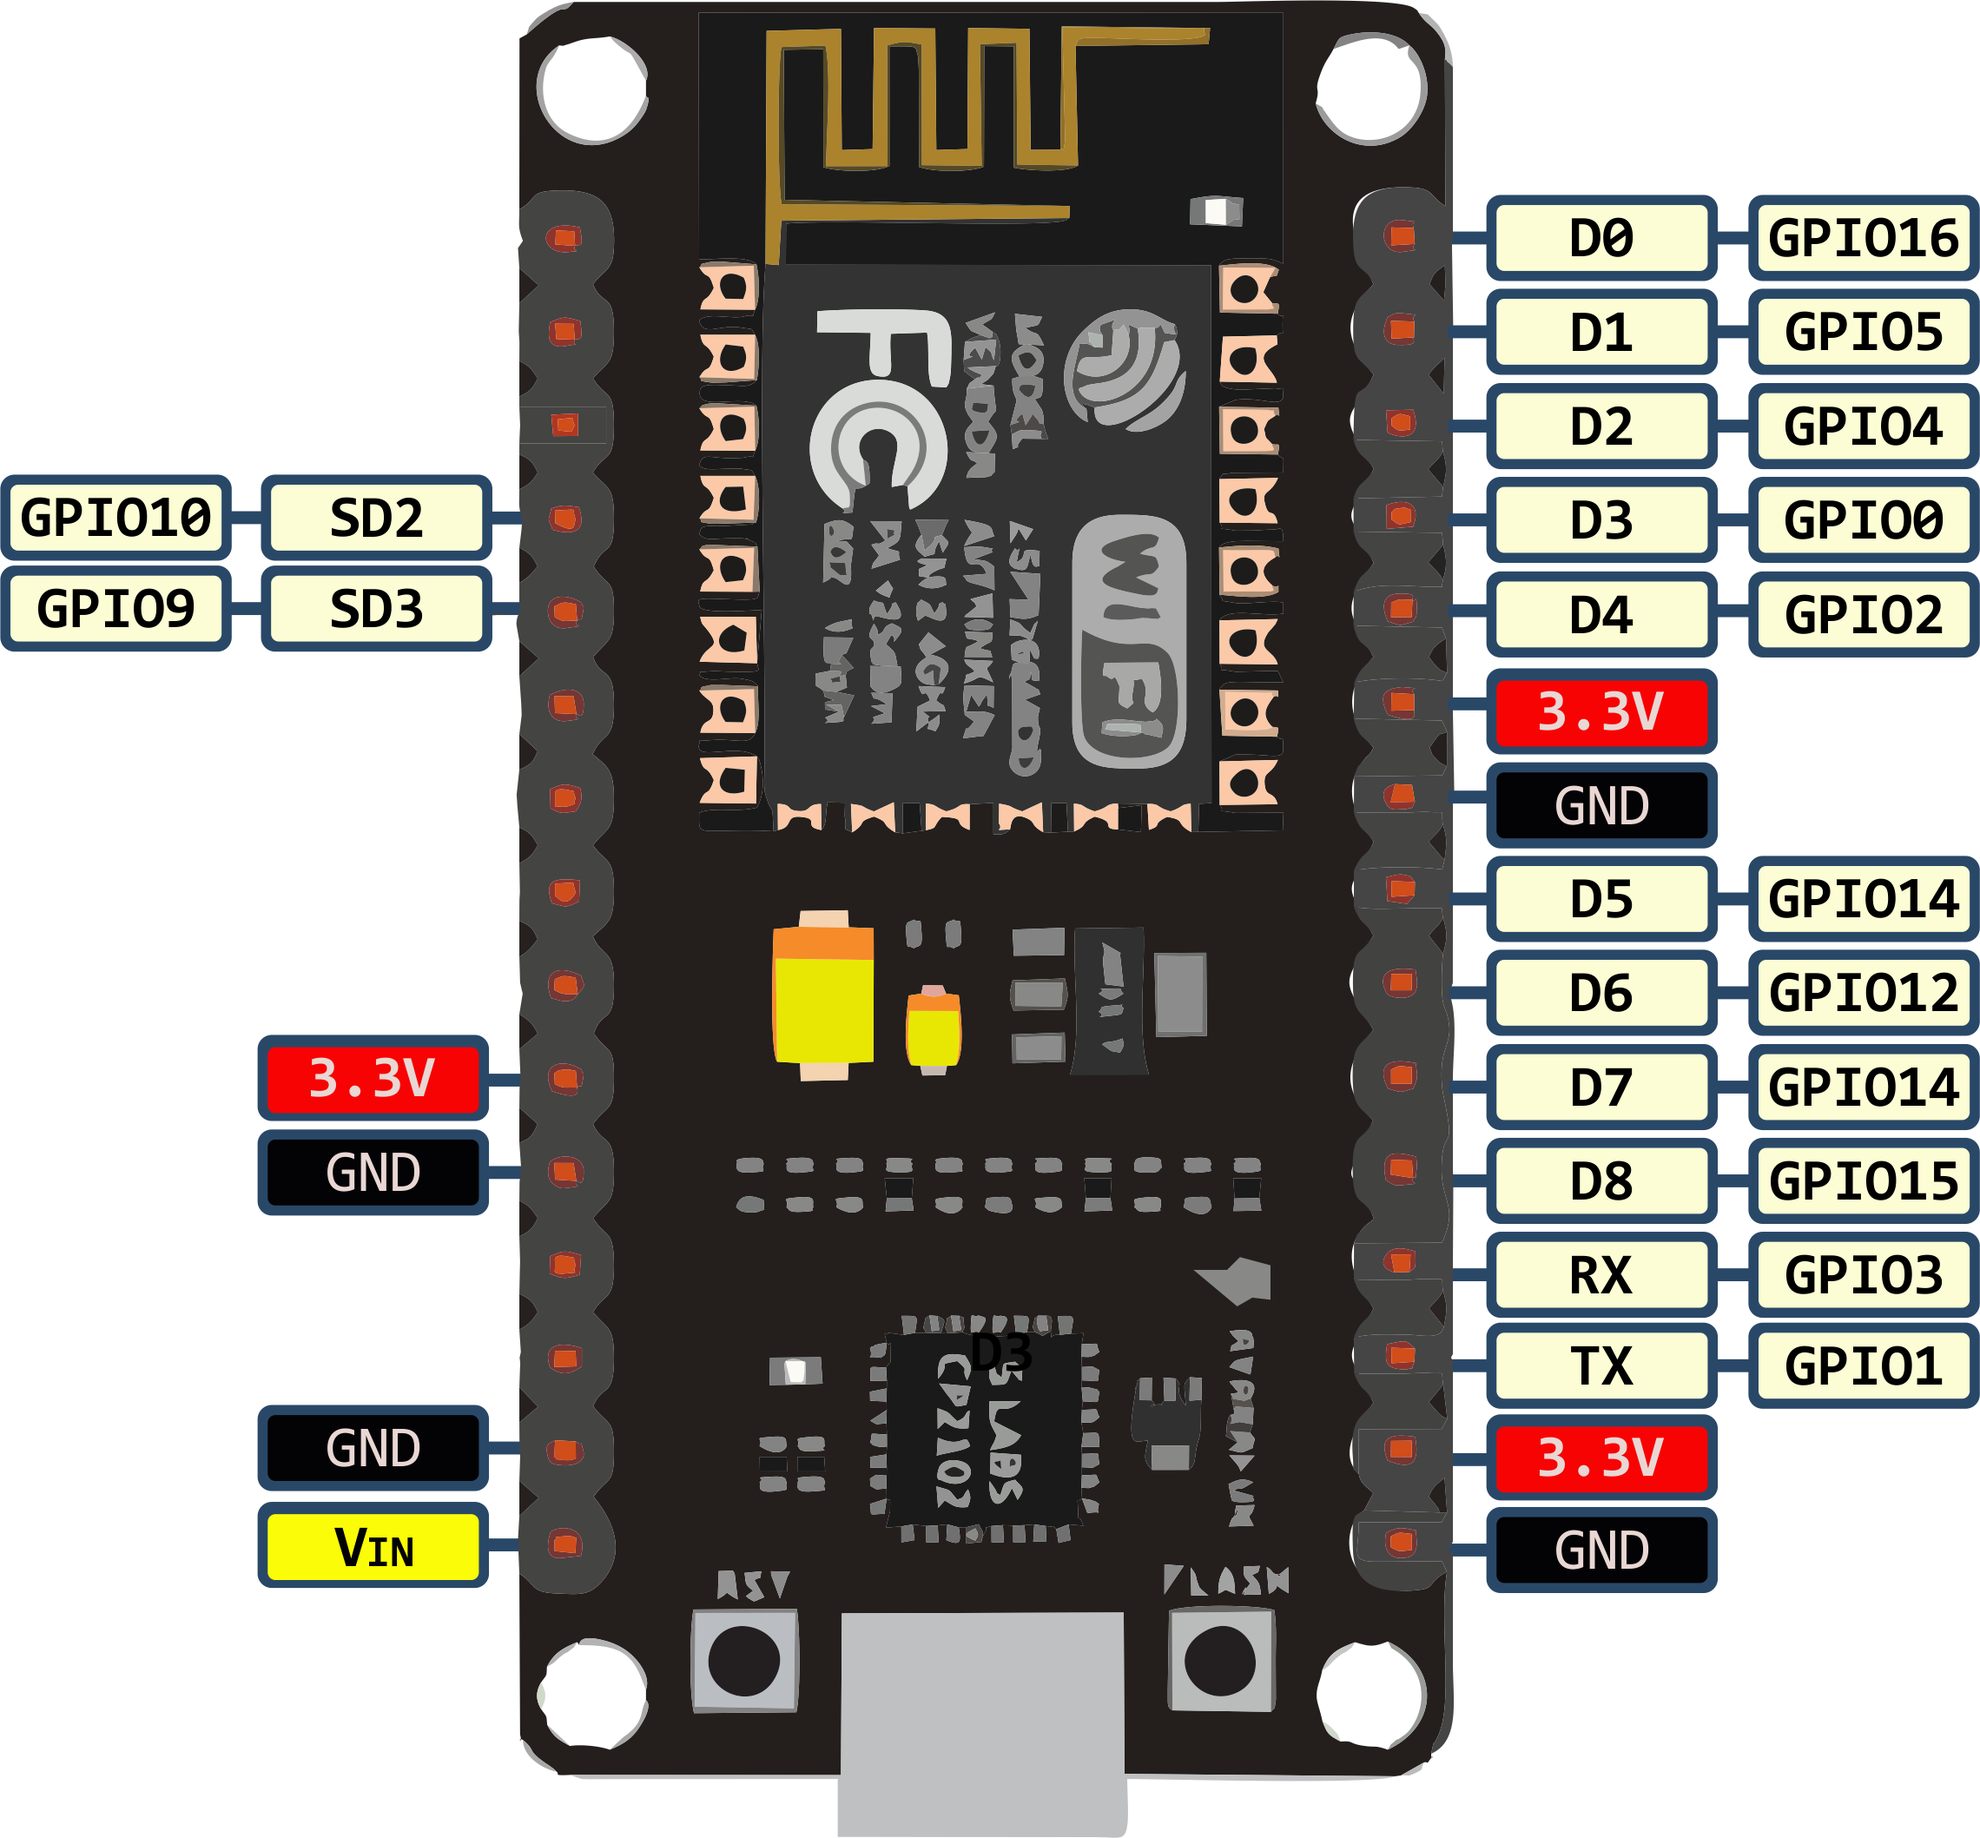
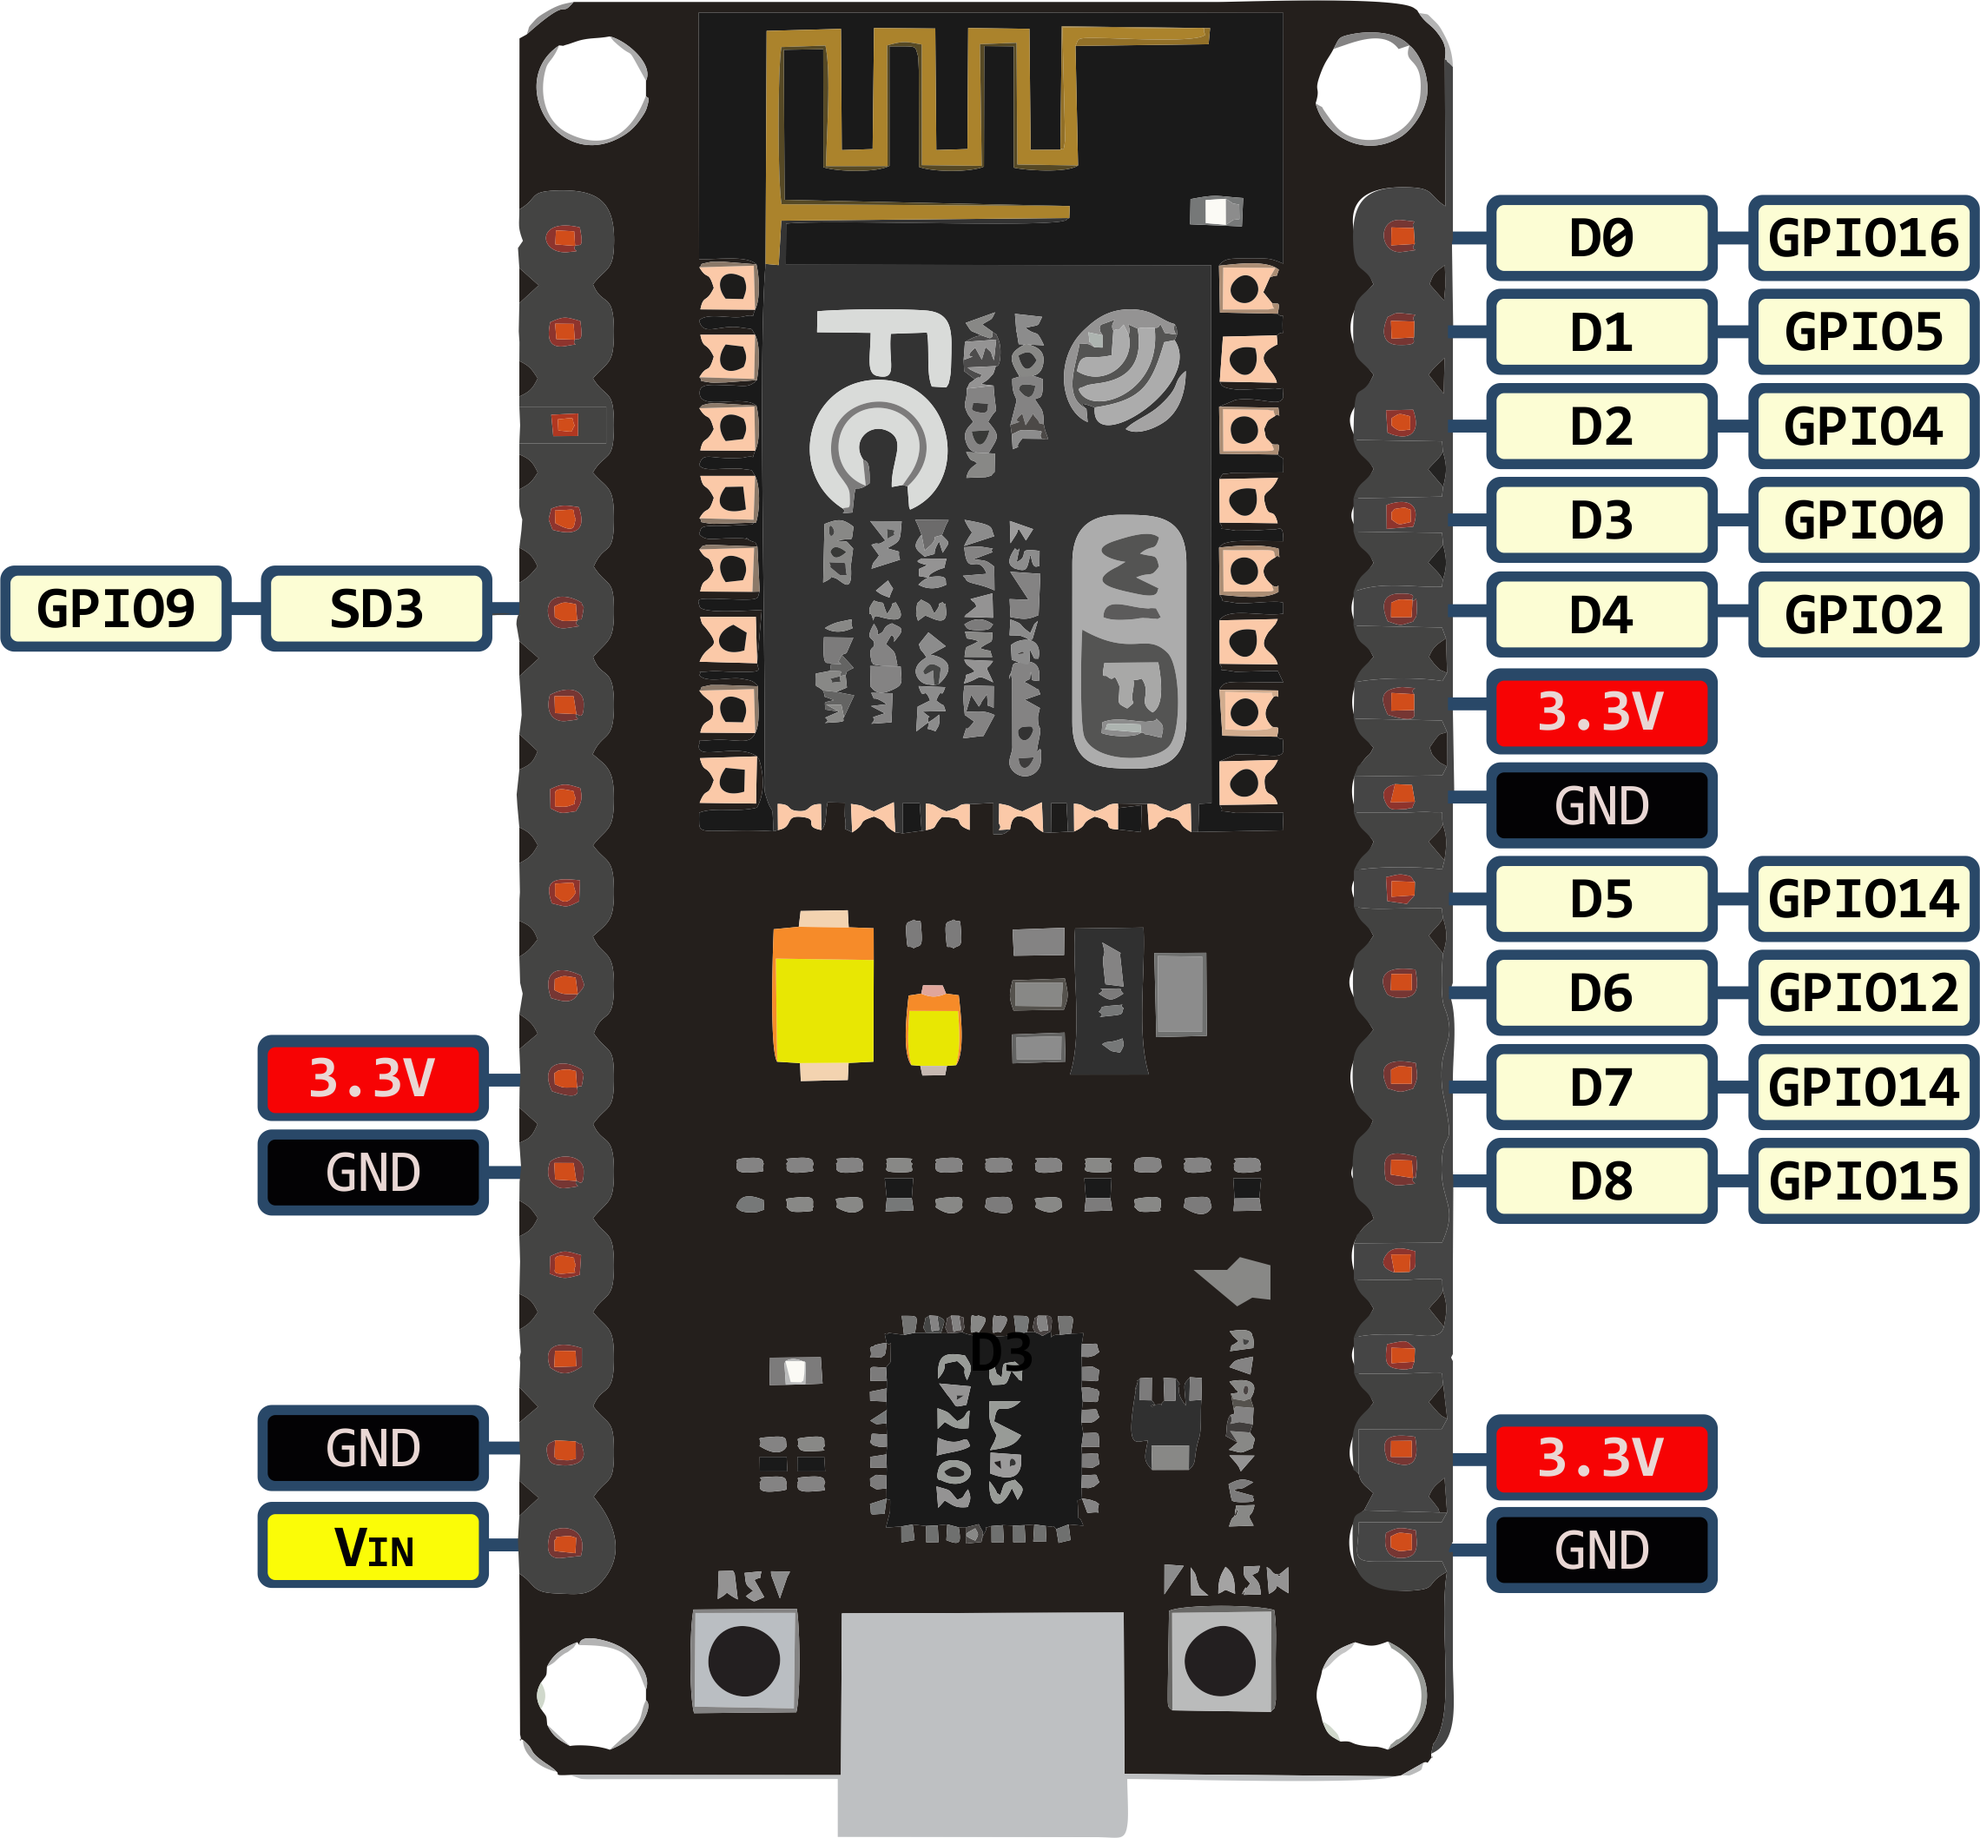
pin_map and complete message to send

Changed region(s): [[0.7162, 0.655, 1.0, 0.7798], [0.0, 0.2495, 0.2491, 0.3119]]

diff --git a/software/src/index.html b/software/src/index.html
@@ -79,105 +79,126 @@ $(function() {
   });
 
   // load default (just specifies circuit size).
-  setCircuitData('{ "width":600, "height":400 }');
-});
-	</script>
-	<script>
-		$('#boardSelector').change(function() {
-			switch ($(this).val()){
-				case 'NodeMCU_V2':
-					var HTMLboard = "";
-					var inputs = ["In0","In1","Out0","Out1","Out2"];
-					var HTMLoptions = '<option></option>';
-					inputs.forEach((v, k) => {
-						HTMLoptions += '<option>' + v + '</option>';
-					});
-					HTMLboard += `
-						<div style="float:left;width:80px;text-align:right;margin-right:10px;">
-							<select name="boardPin[SD2]" style="margin-top:115px;width:80px">${HTMLoptions}</select>
-							<select name="boardPin[SD3]" style="margin-top:2px;width:80px">${HTMLoptions}</select>
-						</div>
-						`;
-					HTMLboard += `<img src="img/NodeMCU_V2.png" style="float:left;height:450px;"/>`;
-					HTMLboard += `
-						<div style="float:left;width:80px;margin-left:10px;">
-							<select name="boardPin[D0]" style="margin-top:47px;width:80px">${HTMLoptions}</select>
-							<select name="boardPin[D1]" style="margin-top:2px;width:80px">${HTMLoptions}</select>
-							<select name="boardPin[D2]" style="margin-top:2px;width:80px">${HTMLoptions}</select>
-							<select name="boardPin[D3]" style="margin-top:2px;width:80px">${HTMLoptions}</select>
-							<select name="boardPin[D4]" style="margin-top:2px;width:80px">${HTMLoptions}</select>
-							<select name="boardPin[D5]" style="margin-top:48px;width:80px">${HTMLoptions}</select>
-							<select name="boardPin[D6]" style="margin-top:2px;width:80px">${HTMLoptions}</select>
-							<select name="boardPin[D7]" style="margin-top:2px;width:80px">${HTMLoptions}</select>
-							<select name="boardPin[D8]" style="margin-top:2px;width:80px">${HTMLoptions}</select>
-							<select name="boardPin[RX]" style="margin-top:2px;width:80px">${HTMLoptions}</select>
-							<select name="boardPin[TX]" style="margin-top:2px;width:80px">${HTMLoptions}</select>
-						</div>
-						`;
-				break;
-				case 'Wemos_D1':
-				var HTMLboard = "";
-					var inputs = ["In0","In1","Out0","Out1","Out2"];
-					var HTMLoptions = '<option></option>';
-					inputs.forEach((v, k) => {
-						HTMLoptions += '<option>' + v + '</option>';
-					});
-					HTMLboard += `<img src="img/Wemos_D1.png" style="float:left;height:500px;margin-left:100px"/>`;
-					HTMLboard +=
-					`<div style="float:left;width:80px;margin-left:10px;">
-							<select name="boardPin[D13]" style="margin-top:200px;width:80px">${HTMLoptions}</select>
-							<select name="boardPin[D12]" style="margin-top:2px;width:80px">${HTMLoptions}</select>
-							<select name="boardPin[D11]" style="margin-top:2px;width:80px">${HTMLoptions}</select>
-							<select name="boardPin[D10]" style="margin-top:2px;width:80px">${HTMLoptions}</select>
-							<select name="boardPin[D9]" style="margin-top:2px;width:80px">${HTMLoptions}</select>
-							<select name="boardPin[D8]" style="margin-top:2px;width:80px">${HTMLoptions}</select>
-							<select name="boardPin[D4]" style="margin-top:42px;width:80px">${HTMLoptions}</select>
-							<select name="boardPin[D3]" style="margin-top:2px;width:80px">${HTMLoptions}</select>
-							<select name="boardPin[D2]" style="margin-top:2px;width:80px">${HTMLoptions}</select>
-						</div>
-						`;
-				break;
-				default:
-					var HTMLboard = "";
-				break;
-			}
-			$("#boardArea").html(HTMLboard);
+	setCircuitData('{ "width":600, "height":400 }');
+	
+	var circuitMessage = {};
+	var gpios = {};
+	$('#boardSelector').change(function() {
+		var HTMLboard = "";
+		circuitMessage = $s.controller($simcir.find('.simcir-workspace')).getCircuitMessage();
+		gpios = $.extend({},circuitMessage.messageToSend.circuit.inputs, circuitMessage.messageToSend.circuit.outputs);
+		var HTMLoptions = '<option></option>';
+		$.each(gpios, function(k, v) {
+			HTMLoptions += '<option>' + k + '</option>';
 		});
-
-		var host = window.document.location.host.replace(/:.*/, '');
-		var ws = new WebSocket('ws://' + host + ':9061');
-		ws.onmessage = function (event) {
-			console.log(event.data);
-		};
-		ws.onopen = function() {
-			console.log('open');
-		};
-
-		function sendCircuit() {
-			ws.send(`
-			{
-				"type":"circuit",
-				"circuit":
-				{
-					"outputs":{
-						"Out1":"(In1 AND NOT(In3)) OR (In2 AND In3)",
-						"Out2":"In1 XOR In2"
-					}
-					,"inputs":{
-						"In1":1,
-						"In2":0,
-						"In3":{"values":[0,1,0,1],"timeslices":[1000,2000,1000,6000]}
-					}
-					,"pin_map":{
-						"Out1":"D0",
-						"Out2":"D1"
-					}
-					,"hardware":"esp8266"
-					,"board":"NodeMCU_V2"
-					,"cycles":1
-				}
-			}`);
+		switch ($(this).val()){
+			case 'NodeMCU_V2':
+				HTMLboard += `
+					<input type="hidden" name="board" value="NodeMCU_V2" />
+					<input type="hidden" name="hardware" value="ESP8266" />
+					<div style="float:left;width:80px;text-align:right;margin-right:10px;">
+						<select selectType="boardPin" name="SD3" style="margin-top:138px;width:80px">${HTMLoptions}</select>
+					</div>
+					`;
+				HTMLboard += `<img src="img/NodeMCU_V2.png" style="float:left;height:450px;"/>`;
+				HTMLboard += `
+					<div style="float:left;width:80px;margin-left:10px;">
+						<select selectType="boardPin" name="D0" style="margin-top:47px;width:80px">${HTMLoptions}</select>
+						<select selectType="boardPin" name="D1" style="margin-top:2px;width:80px">${HTMLoptions}</select>
+						<select selectType="boardPin" name="D2" style="margin-top:2px;width:80px">${HTMLoptions}</select>
+						<select selectType="boardPin" name="D3" style="margin-top:2px;width:80px">${HTMLoptions}</select>
+						<select selectType="boardPin" name="D4" style="margin-top:2px;width:80px">${HTMLoptions}</select>
+						<select selectType="boardPin" name="D5" style="margin-top:48px;width:80px">${HTMLoptions}</select>
+						<select selectType="boardPin" name="D6" style="margin-top:2px;width:80px">${HTMLoptions}</select>
+						<select selectType="boardPin" name="D7" style="margin-top:2px;width:80px">${HTMLoptions}</select>
+						<select selectType="boardPin" name="D8" style="margin-top:2px;width:80px">${HTMLoptions}</select>
+					</div>
+					`;
+			break;
+			case 'Wemos_D1':
+				HTMLboard += `<img src="img/Wemos_D1.png" style="float:left;height:500px;margin-left:100px"/>`;
+				HTMLboard +=`
+					<input type="hidden" name="board" value="Wemos_D1" />
+					<input type="hidden" name="hardware" value="ESP8266" />
+					<div style="float:left;width:80px;margin-left:10px;">
+						<select selectType="boardPin" name="D13" style="margin-top:200px;width:80px">${HTMLoptions}</select>
+						<select selectType="boardPin" name="D12" style="margin-top:2px;width:80px">${HTMLoptions}</select>
+						<select selectType="boardPin" name="D11" style="margin-top:2px;width:80px">${HTMLoptions}</select>
+						<select selectType="boardPin" name="D10" style="margin-top:2px;width:80px">${HTMLoptions}</select>
+						<select selectType="boardPin" name="D9" style="margin-top:2px;width:80px">${HTMLoptions}</select>
+						<select selectType="boardPin" name="D8" style="margin-top:2px;width:80px">${HTMLoptions}</select>
+						<select selectType="boardPin" name="D4" style="margin-top:42px;width:80px">${HTMLoptions}</select>
+						<select selectType="boardPin" name="D3" style="margin-top:2px;width:80px">${HTMLoptions}</select>
+						<select selectType="boardPin" name="D2" style="margin-top:2px;width:80px">${HTMLoptions}</select>
+					</div>
+					`;
+			break;
+			default:
+				var HTMLboard = "";
+			break;
 		}
+		$("#boardArea").html(HTMLboard);
+	});
+
+	var host = window.document.location.host.replace(/:.*/, '');
+	var ws = new WebSocket('ws://' + host + ':9061');
+	ws.onmessage = function (event) {
+		console.log(event.data);
+	};
+	ws.onopen = function() {
+		console.log('open ws connection');
+	};
+
+	function sendCircuit() {
+		var arrOut = Object.keys(circuitMessage.messageToSend.circuit.outputs);
+		var qtdOut = arrOut.length;
+		var countOut = 0;
+		var pinMap = {};
+		$('select[selectType=boardPin]').each(function(i, el){
+			// @TODO: validar se todos outputs foram mapeados e se não repetiu
+			//if (arrOut.includes($(el).val())) {
+			//	countOut++;
+			//}
+			if ($(el).val() != "") {
+				pinMap[$(el).attr('name')] = $(el).val();
+			}
+		});
+		
+		circuitMessage.messageToSend["pin_map"] = pinMap;
+		circuitMessage.messageToSend["hardware"] = $("input[name=hardware]").val();
+		circuitMessage.messageToSend["board"] = $("input[name=board]").val();
+		circuitMessage.messageToSend["cycles"] = 1;
+		console.log(circuitMessage.messageToSend, JSON.stringify(circuitMessage.messageToSend));
+		
+		ws.send(JSON.stringify(circuitMessage.messageToSend));
+
+		/*
+		ws.send(`
+		{
+			"type":"circuit",
+			"circuit":
+			{
+				"outputs":{
+					"Out1":"(In1 AND NOT(In3)) OR (In2 AND In3)",
+					"Out2":"In1 XOR In2"
+				}
+				,"inputs":{
+					"In1":1,
+					"In2":0,
+					"In3":{"values":[0,1,0,1],"timeslices":[1000,2000,1000,6000]}
+				}
+				,"pin_map":{
+					"Out1":"D0",
+					"Out2":"D1"
+				}
+				,"hardware":"esp8266"
+				,"board":"NodeMCU_V2"
+				,"cycles":1
+			}
+		}`);*/
+	}
+});
+		
 	</script>
 	<script>if (window.module) module = window.module;</script>
   </body>

diff --git a/software/src/simcir.js b/software/src/simcir.js
@@ -1902,11 +1902,11 @@ simcir.$ = function() {
       };
     };
 
-    var messageToSend = {};
     var getValidation = function() {
       var message = '';
       var ckt_valid = 0;
       var devIdCount = 0;
+      var messageToSend = {};
       $devicePane.children('.simcir-device').each(function() {
         var $dev = $(this);
         var device = controller($dev);
@@ -1933,7 +1933,7 @@ simcir.$ = function() {
         inConn.forEach(function (t) {
           if (t.to.split('.')[0] == objToId.to.split('.')[0] && t != objToId) {
             devices.forEach(function (x) {
-              if (x.id == t.from.split('.')[0] && x.id != objOriginId) {
+              if (x.id == t.from.split('.')[0] && x.id == objOriginId) {
                 if (x.type == 'Out') {
                   outObj = x;
                 }
@@ -2023,7 +2023,7 @@ simcir.$ = function() {
         return st.pop();
       };
 
-      var sendOutputs = [];
+      var sendOutputs = {};
       if (arrOutputs.length > 0) {
         $.each(arrOutputs, function (i, devOut) {
           var root = devOut.label;
@@ -2041,34 +2041,22 @@ simcir.$ = function() {
             message = LANG["ERR_INVALID_CIRCUIT"];
           }
         });
-        var inputs = [];
+        var sendInputs = {};
         $.each(arrInputs, function(i, devIn) {
           var to = getDevIdToByFrom(connectors, devIn.id);
           devices.forEach(function (x) {
             if (x.id == to) {
               if (x.type == 'DC') {
-                var _t = {};
-                _t[devIn['label']] = 1;
-                inputs.push(_t);
+                sendInputs[devIn['label']] = 1;
               } else if (x.type == 'GND') {
-                var _t = {};
-                _t[devIn['label']] = 0;
-                inputs.push(_t);
+                sendInputs[devIn['label']] = 0;
               } else if (x.type == 'OSC') {
-                var _t = {};
-                _t[devIn['label']] = {};
-                _t[devIn['label']]['timeslices'] = x.timeslices;
-                _t[devIn['label']]['values'] = x.values;
-
-                inputs.push(_t);
+                sendInputs[devIn['label']] = {};
+                sendInputs[devIn['label']]['timeslices'] = x.timeslices;
+                sendInputs[devIn['label']]['values'] = x.values;
               }
             }
           });
-        });
-        
-        var sendInputs = [];
-        $.each(inputs, function(key, val) {
-          sendInputs.push(val);
         });
 
         messageToSend = {
@@ -2086,7 +2074,8 @@ simcir.$ = function() {
 
       return {
         valid: ckt_valid,
-        message: message
+        message: message,
+        messageToSend: messageToSend
       };
     }
 
@@ -2350,10 +2339,15 @@ simcir.$ = function() {
       }
     };
 
+    var getCircuitMessage = function() {
+      return getValidation();
+    };
+
     controller($workspace, {
       data: getData,
       text: getText,
-      validate: validateCircuit
+      validate: validateCircuit,
+      getCircuitMessage: getCircuitMessage
     });
 
     return $workspace;
@@ -2500,7 +2494,8 @@ simcir.$ = function() {
     enableEvents: enableEvents,
     graphics: graphics,
     controller: controller,
-    unit: unit
+    unit: unit,
+    messageToSend: {"dasd":"asdsa"}
   });
 }(simcir);
 
